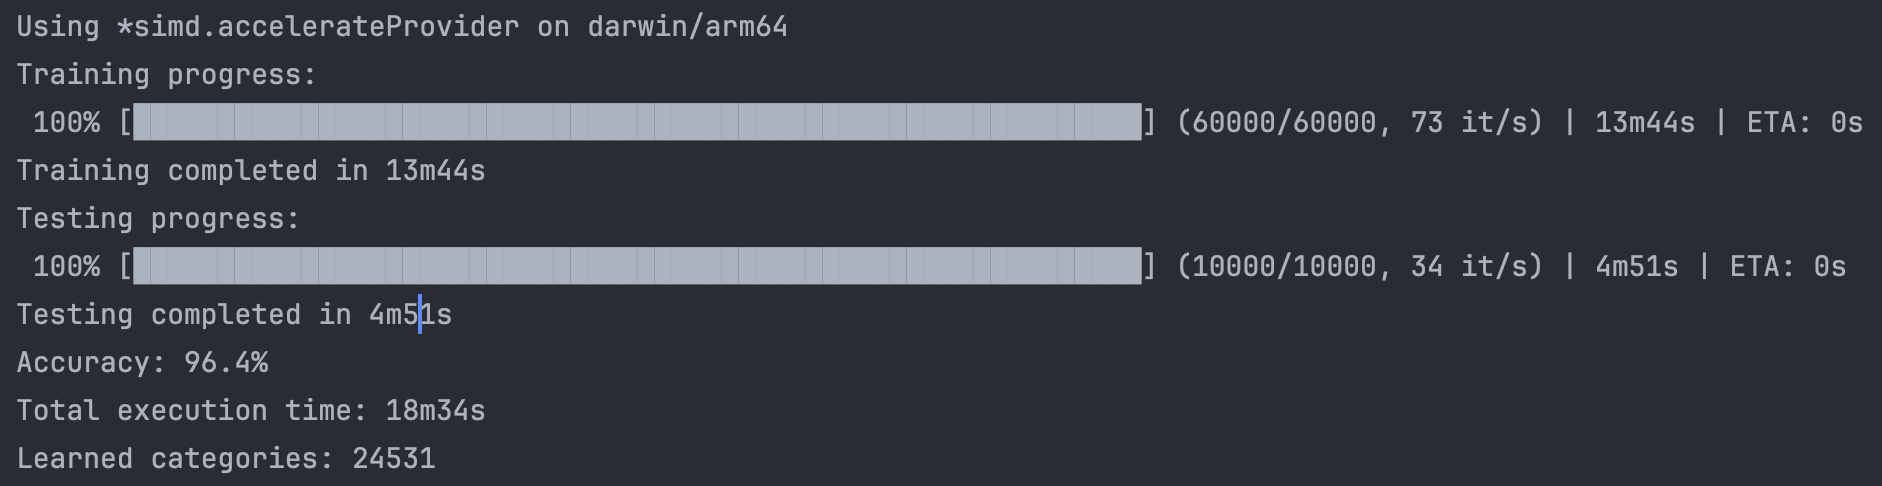
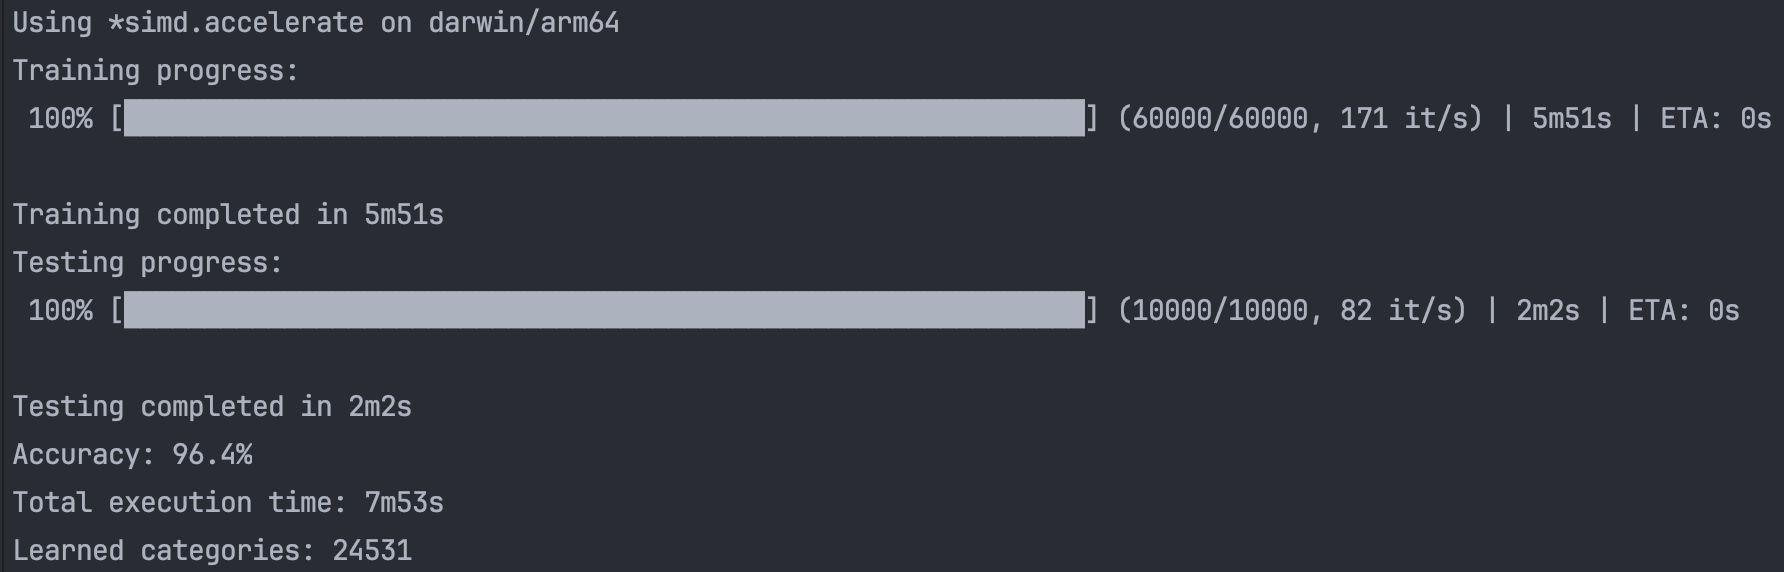
other sorting algos
Took 1 hour 3 minutes

Changed region(s): [[0.0, 0.0, 1.0, 0.4012], [0.0, 0.6173, 0.2775, 0.9877], [0.0, 0.4321, 0.9865, 0.5864]]

diff --git a/fuzzy_art.go b/fuzzy_art.go
@@ -3,10 +3,10 @@ package art
 import (
 	"fmt"
 	"runtime"
-	"slices"
 	"sync"
 
 	"art/internal/simd"
+	"github.com/jfcg/sorty/v2"
 )
 
 type FuzzyART struct {
@@ -45,7 +45,10 @@ type FuzzyART struct {
 	// Decrease beta for more stable learning, which can be beneficial for more stable environments.
 	beta float64
 
-	// Weight matrix - stores category prototypes
+	// M is the number of features of the input
+	M int
+
+	// W is the weight matrix - stores category prototypes
 	W [][]float64
 	T []*activation
 }
@@ -63,11 +66,12 @@ func NewFuzzyART(inputLen int, rho float64, alpha float64, beta float64) (*Fuzzy
 
 	return &FuzzyART{
 		workerPool: make(chan struct{}, runtime.NumCPU()),
-		batchSize:  64,
+		batchSize:  16,
 		wg:         sync.WaitGroup{},
 		rho:        rho,
 		alpha:      alpha,
 		beta:       beta,
+		M:          inputLen,
 		W:          make([][]float64, 0),
 		T:          make([]*activation, 0),
 	}, nil
@@ -135,11 +139,9 @@ type activation struct {
 	j int
 }
 
-// activateCategories implements the recognition field functionality
-// by computing activation values for each category based on the input vector.
-// The sorting process also implicitly handles lateral inhibition by prioritizing
-// the category with the highest activation, thereby inhibiting others.
-func (m *FuzzyART) activateCategories(A []float64) {
+// prepareClusterActivation initializes or expands
+// the T slice to accommodate all weights in W.
+func (m *FuzzyART) prepareClusterActivation() {
 	if len(m.T) < len(m.W) {
 		// Keep existing activations but ensure T is at least as long as W
 		if len(m.T) < len(m.W) {
@@ -150,12 +152,20 @@ func (m *FuzzyART) activateCategories(A []float64) {
 			// initialize the new activation
 			lastIndex := len(m.T)
 			newT[lastIndex] = &activation{
-				fi: make([]float64, len(A)),
+				fi: make([]float64, len(m.W[0])),
 			}
 			// Update T with the new slice
 			m.T = newT
 		}
 	}
+}
+
+// activateCategories implements the recognition field functionality
+// by computing activation values for each category based on the input vector.
+// The sorting process also implicitly handles lateral inhibition by prioritizing
+// the category with the highest activation, thereby inhibiting others.
+func (m *FuzzyART) activateCategories(A []float64) {
+	m.prepareClusterActivation()
 
 	activationsCh := make(chan []*activation, len(m.workerPool)*m.batchSize)
 	defer close(activationsCh)
@@ -202,21 +212,41 @@ func (m *FuzzyART) activateCategories(A []float64) {
 	m.wg.Wait()
 
 	// Sort category indices by activation values in descending order
-	slices.SortFunc(m.T, func(a, b *activation) int {
-		// In case of equal activation values, sort by category index,
-		// because older categories must have the priority.
-		if a.choice == b.choice {
-			if a.j < b.j {
-				return -1
-			} else {
-				return 1
+	//slices.SortFunc(m.T, func(a, b *activation) int {
+	//	// In case of equal activation values, sort by category index,
+	//	// because older categories must have the priority.
+	//	if a.choice == b.choice {
+	//		if a.j < b.j {
+	//			return -1
+	//		} else {
+	//			return 1
+	//		}
+	//	}
+	//	if a.choice > b.choice {
+	//		return -1
+	//	}
+	//	return 1
+	//})
+
+	lsw := func(i, k, r, s int) bool {
+		if m.T[i].choice == m.T[k].choice { // strict comparator like < or >
+			if m.T[i].j < m.T[k].j { // strict comparator like < or >
+				if r != s {
+					m.T[r], m.T[s] = m.T[s], m.T[r]
+				}
+				return true
 			}
+			return false
 		}
-		if a.choice > b.choice {
-			return -1
+		if m.T[i].choice > m.T[k].choice { // strict comparator like < or >
+			if r != s {
+				m.T[r], m.T[s] = m.T[s], m.T[r]
+			}
+			return true
 		}
-		return 1
-	})
+		return false
+	}
+	sorty.Sort(len(m.T), lsw)
 }
 
 // matchCriterion computes the matchCriterion function.
@@ -238,9 +268,9 @@ func (m *FuzzyART) matchCriterion(fiNorm, aNorm float64) float64 {
 // in which case a new category is created.
 func (m *FuzzyART) resonateOrReset(
 	A []float64,
-) (categoryWeights []float64, categoryIndex int) {
+) (resonance float64, categoryIndex int) {
 	//aNorm := m.l1Norm(A)
-	aNorm := simd.SumFloat64(A)
+	//aNorm := simd.SumFloat64(A)
 
 	//// Get top k activations (use a reasonable number based on your application)
 	//// For ART, we might only need a few categories, so k could be small
@@ -254,12 +284,12 @@ func (m *FuzzyART) resonateOrReset(
 	//	choices[i] = t.choice
 	//	indices[i] = t.j
 	//}
-
+	//
 	//_, topIndices := simd.TopKActivations(choices, indices, topK)
 	//for _, j := range topIndices {
 	//	t := m.T[j]
 	for _, t := range m.T {
-		resonance := m.matchCriterion(t.fiNorm, aNorm)
+		resonance = m.matchCriterion(t.fiNorm, float64(m.M))
 		if resonance >= m.rho {
 			newW := make([]float64, len(A))
 			for k := range newW {
@@ -267,19 +297,18 @@ func (m *FuzzyART) resonateOrReset(
 			}
 
 			m.W[t.j] = newW
-			return newW, t.j
+			return resonance, t.j
 		}
 	}
 
 	// If no category meets the vigilance criterion, create a new category.
 	// Fast commitment option, directly copy the input vector as the new category.
 	m.W = append(m.W, A)
-
-	return m.W[len(m.W)-1], len(m.W) - 1
+	return resonance, len(m.W) - 1
 }
 
 // Fit implements the complete ART learning cycle.
-func (m *FuzzyART) Fit(a []float64) ([]float64, int) {
+func (m *FuzzyART) Fit(a []float64) (resonance float64, categoryIndex int) {
 	A := m.complementCode(a)
 	m.activateCategories(A)
 	return m.resonateOrReset(A)
@@ -288,11 +317,13 @@ func (m *FuzzyART) Fit(a []float64) ([]float64, int) {
 // Predict implements the recognition process with optional learning.
 // It returns the weight vector of the best matching category and its index.
 // If learn is true, it updates the weights of the matching category.
-func (m *FuzzyART) Predict(a []float64, learn bool) ([]float64, int) {
+func (m *FuzzyART) Predict(a []float64, learn bool) (resonance float64, categoryIndex int) {
 	A := m.complementCode(a)
 	m.activateCategories(A)
 	if !learn {
-		return m.W[m.T[0].j], m.T[0].j
+		aNorm := simd.SumFloat64(A)
+		resonance = m.matchCriterion(m.T[0].fiNorm, aNorm)
+		return resonance, m.T[0].j
 	}
 
 	return m.resonateOrReset(A)

diff --git a/internal/simd/accelerate_arm64.go b/internal/simd/accelerate_arm64.go
@@ -26,6 +26,7 @@ double accelerate_sum_float64(const size_t n, double *arr) {
 }
 */
 import "C"
+import "math"
 
 // accelerate implements Provider with Apple's Accelerate framework
 type accelerate struct{}
@@ -54,4 +55,54 @@ func (p *accelerate) SumFloat64(arr []float64) float64 {
 	)
 
 	return float64(sum)
+}
+
+func (p *accelerate) TopKActivations(choices []float64, indices []int, k int) ([]float64, []int) {
+	n := len(choices)
+	if n == 0 || k <= 0 {
+		return []float64{}, []int{}
+	}
+
+	if k > n {
+		k = n
+	}
+
+	topValues := make([]float64, k)
+	topIndices := make([]int, k)
+
+	// Initialize with invalid values
+	for i := range topValues {
+		topValues[i] = math.Inf(-1)
+		topIndices[i] = -1
+	}
+
+	// Stream through all activations, maintaining top k
+	for i := 0; i < n; i++ {
+		val := choices[i]
+		idx := indices[i]
+
+		// Find insertion position based on value and tie-breaking
+		pos := k
+		for j := 0; j < k; j++ {
+			if val > topValues[j] ||
+				(val == topValues[j] && idx < topIndices[j]) {
+				pos = j
+				break
+			}
+		}
+
+		// If an insertion position was found, shift and insert
+		if pos < k {
+			// Shift elements down
+			for j := k - 1; j > pos; j-- {
+				topValues[j] = topValues[j-1]
+				topIndices[j] = topIndices[j-1]
+			}
+			// Insert the new value
+			topValues[pos] = val
+			topIndices[pos] = idx
+		}
+	}
+
+	return topValues, topIndices
 }

diff --git a/internal/simd/generic.go b/internal/simd/generic.go
@@ -5,13 +5,11 @@ import "math"
 // generic implements Provider with standard Go code
 type generic struct{}
 
-func (p *generic) FuzzyIntersectionSum(A, w []float64, intersection_out []float64) float64 {
+func (p *generic) FuzzyIntersectionSum(A, w []float64, intersectionOut []float64) float64 {
 	var sum float64
 	for i := 0; i < len(A); i++ {
 		minimum := math.Min(A[i], w[i])
-		if intersection_out != nil {
-			intersection_out[i] = minimum
-		}
+		intersectionOut[i] = minimum
 		sum += minimum
 	}
 	return sum

diff --git a/example/fuzzy_art/main.go b/example/fuzzy_art/main.go
@@ -14,8 +14,8 @@ import (
 )
 
 const (
-	TRAIN_SAMPLES_PER_DIGIT = 1000
-	TEST_SAMPLES_PER_DIGIT  = 100
+	TRAIN_SAMPLES_PER_DIGIT = -1
+	TEST_SAMPLES_PER_DIGIT  = -1
 
 	progressBarWidth = 60
 )
@@ -48,8 +48,8 @@ func main() {
 func test(
 	trainData,
 	testData map[string][][]float64,
-	fitFunc func([]float64) ([]float64, int),
-	predictFunc func([]float64, bool) ([]float64, int),
+	fitFunc func([]float64) (float64, int),
+	predictFunc func([]float64, bool) (float64, int),
 ) {
 	startTime := time.Now()
 
